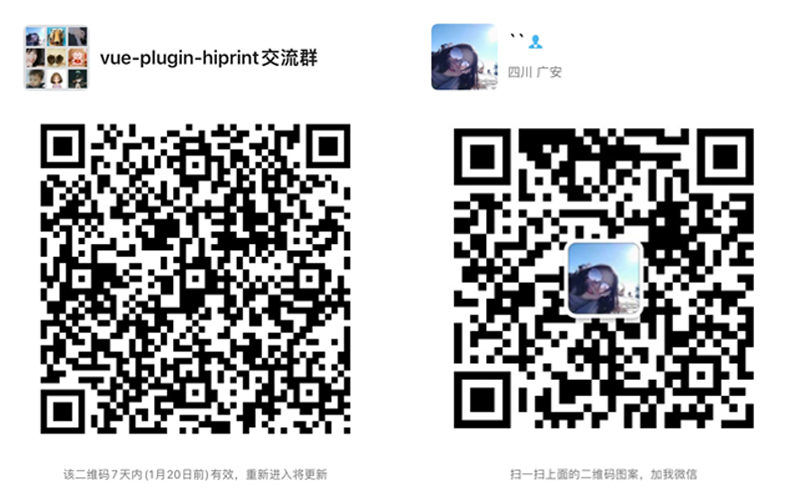
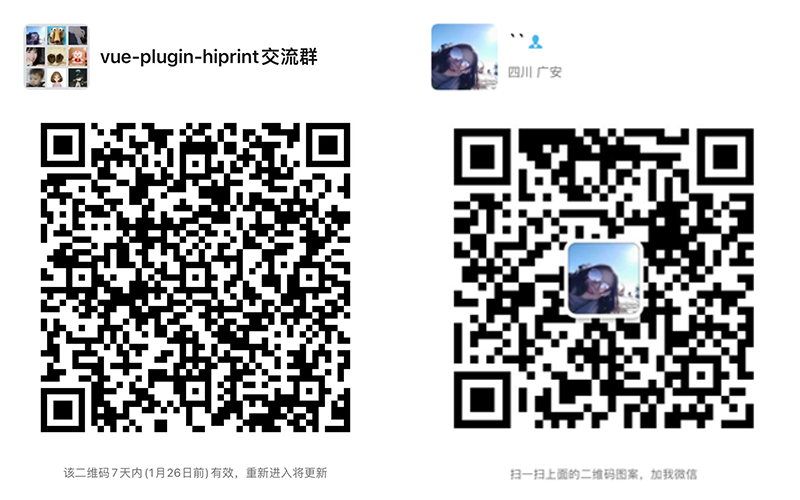
update readme

Changed region(s): [[0.0312, 0.24, 0.4375, 0.87], [0.0312, 0.03, 0.4062, 0.18], [0.0625, 0.93, 0.4062, 0.96]]

diff --git a/README.md b/README.md
@@ -17,6 +17,14 @@ npm run start
 npm run build-w-64
 ```
 
+## 交流群
+<div align="center">
+
+![image](res/wechat.png "微信群")
+
+</div>
+若过期 加我 备注加群
+
 ### 学习借鉴
 #### electron <a href="https://www.electronjs.org/zh/docs/latest/">详情</a>
 #### electron-egg <a href="https://gitee.com/wallace5303/electron-egg/">详情</a>
